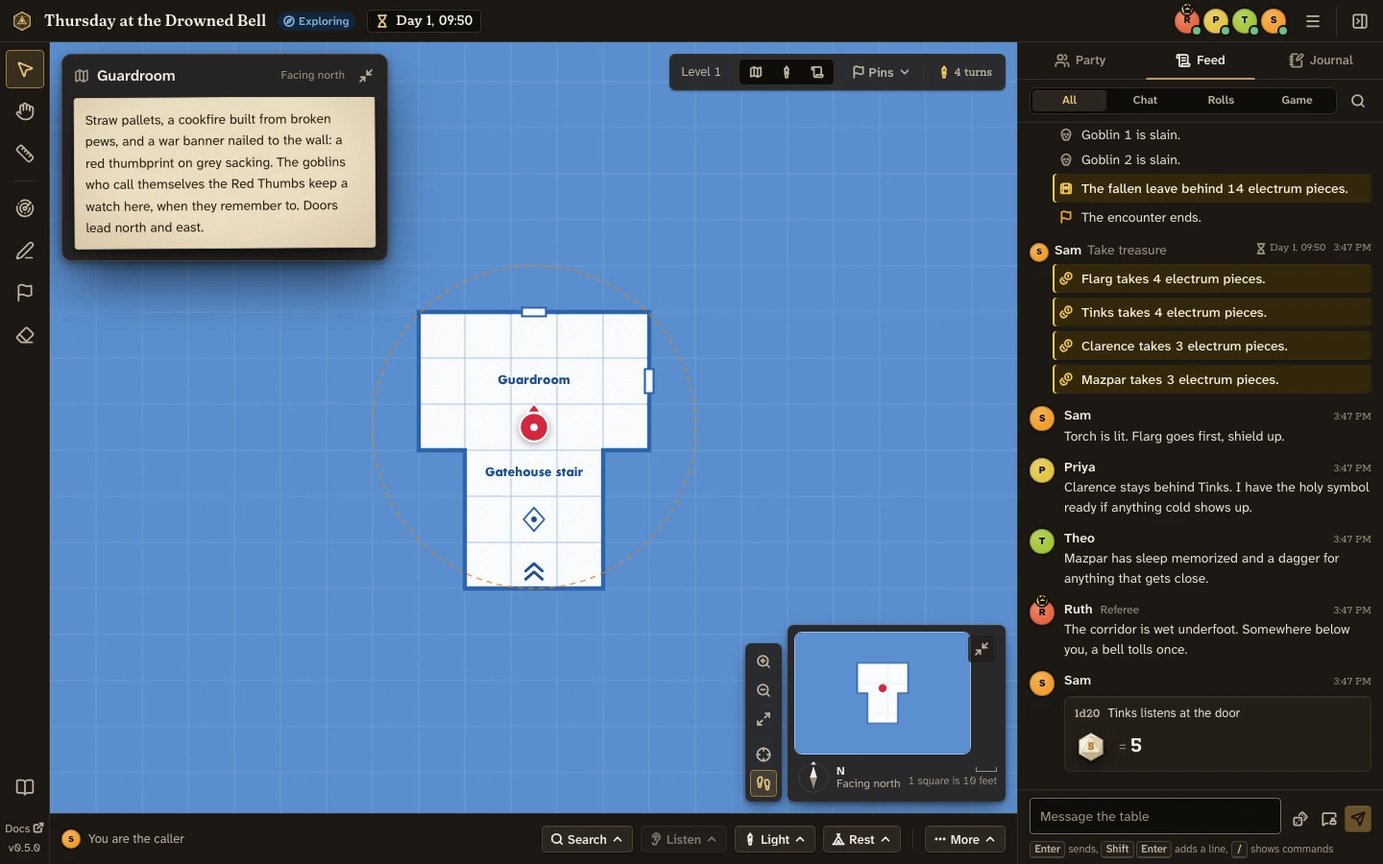
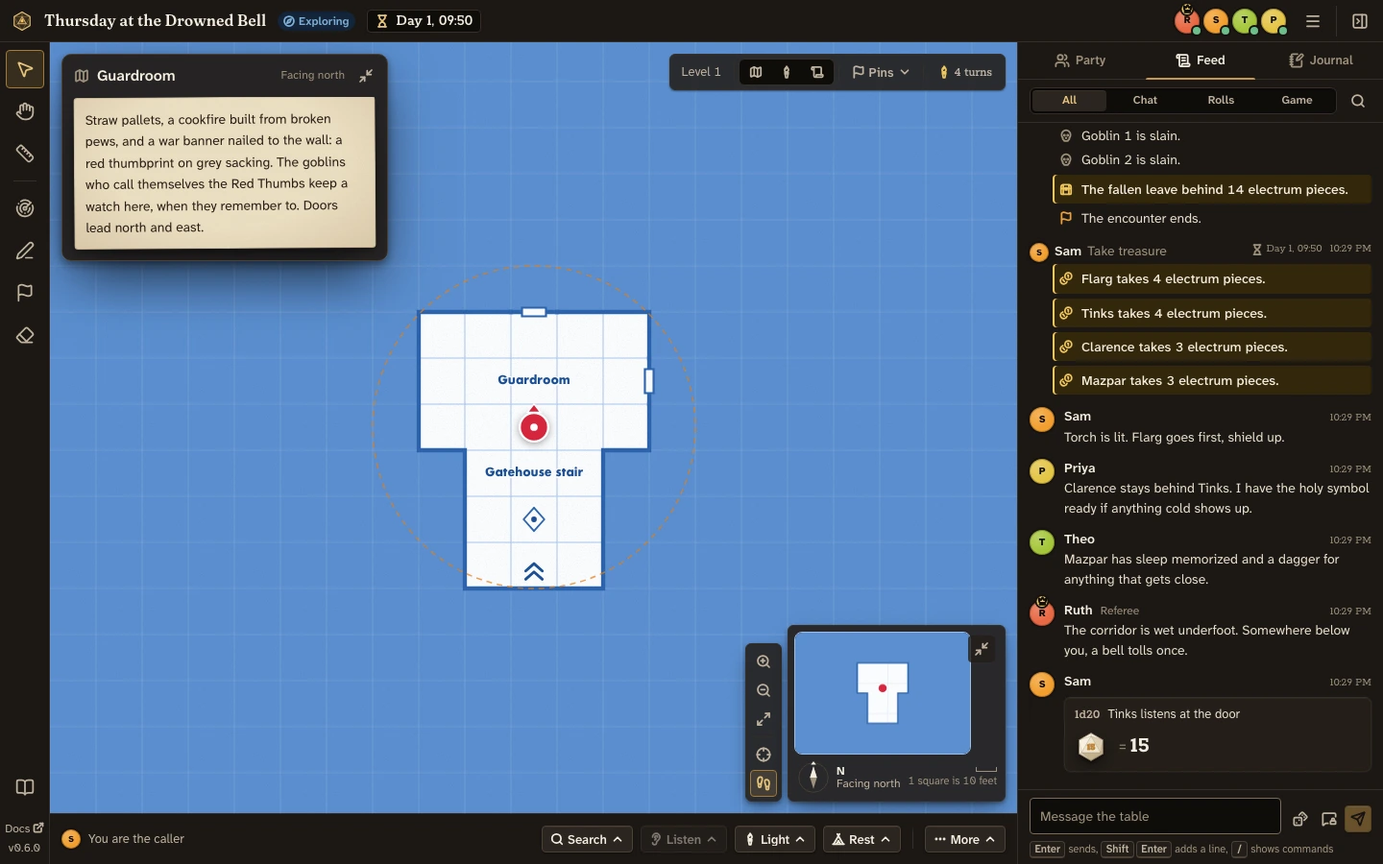
Bump version to 0.6.0 and update the changelog
Move the unreleased changelog entries under 0.6.0, set every package to 0.6.0, and capture the documentation screenshots again so they show the table rules panel, the battle board's Collapse button, and the new version.

The release notes open with what a host must know, list the three changes that can break a client of the protocol or the SDK, and state the rejoin fix under Security. The capture script takes the lobby screenshot in a taller window, because the table rules panel was cut off at 900 px. The battle and getting started pages match the composer, the quick actions, and the lobby as they are now.

Claude-Session: https://claude.ai/code/session_01V7Ertpjdrd4HCgVNU5jJph

diff --git a/docs/changelog.md b/docs/changelog.md
@@ -12,37 +12,59 @@ The format is based on [Keep a Changelog](https://keepachangelog.com/en/1.1.0/),
 
 ## [Unreleased]
 
+## [0.6.0] - 2026-11-27
+
+This release still needs a `bxapi` built on `osrlib` 2.10.0, so the engine requirement is the same as in 0.5.0. It was built and tested against `bxapi` 0.1.0 at commit `0360606`, which is `bxapi` `main` from its pull request 63 onward. `SCHEMA_VERSION` stays at `8`, so the server starts on a 0.5.0 database without a migration. Three changes can break a client of the HTTP or WebSocket protocol or the `@bxvtt/shared/client` SDK, and the list after this paragraph names each one. A referee who hosts a server should also know that players no longer receive the invite code, and that a table whose game `bxapi` has lost now shows a screen with a way out in place of reconnecting forever.
+
+Changes that can break a client:
+
+- `TableDetail.invite_code` is optional. The server sends it only to referees and leaves it out of every response and WebSocket message for a player, so a client that reads it for a player must handle `undefined`. `BxvttClient.createTable` and `BxvttClient.regenerateInviteCode` now return `RefereeTableDetail`, which keeps the code required.
+- The server has a new problem code, `game_missing` (HTTP 410), and a new WebSocket close code, `game_missing` (4012), for a table whose game `bxapi` no longer has. A client that handles every problem code or close code exhaustively needs a case for each, and a client that reconnects on every close code must stop on 4012, because waiting never brings the game back. `CloseReason` has a new member, `'game_missing'`.
+- `TableConnection.connect()` does nothing while a socket is open or connecting. Before, a second call opened a second socket. After the connection closes with `game_missing`, call `connect()` again to try once more.
+
+Every other protocol change is optional or new: `GameSummary.missing`, `RejoinStatus.cancel_reason`, a game entry's `names.valuable_phrases`, and the preview route.
+
 ### Added
 
-- **`game_missing` problem code and `GameSummary.missing` (`@bxvtt/shared/protocol`, `@bxvtt/server`):** When `bxapi` answers that it no longer has a table's session, for example after its database was reset, the server records it and answers game requests with `410 game_missing`. The WebSocket sends an `error` with the same code and closes with the new close code `game_missing` (4012), on which `TableConnection` stops reconnecting with the close reason `game_missing`. Before, the server sent `bxapi_unavailable` and `try_again_later`, as it still does while `bxapi` is only unreachable, and the client tried again forever. `GameSummary.missing` is `true` for such a table in the table list and the table detail until a referee ends the game. ([#24](https://github.com/mmacy/bxvtt/issues/24))
-- **A screen for a game that can't be loaded (`@bxvtt/web`):** Opening such a table shows "The game at {table} can't be loaded" in place of reconnecting forever. A referee gets **Return to lobby**, which ends the lost game and keeps the saves, so the referee can continue from a save, start a new game, or delete the table from the lobby's table menu, even after a full reset of `bxapi`. A player gets **Try again** and **Leave table**. The table list shows a **Can't load** badge for the table. Deleting the table frees its place in the referee's table limit. ([#24](https://github.com/mmacy/bxvtt/issues/24))
-- **`RejoinStatus.cancel_reason` (`@bxvtt/shared/protocol`, `@bxvtt/server`, `@bxvtt/web`):** A cancelled rejoin request says why: `member_returned`, `member_left` (left, removed, or the table was deleted, without saying which), `no_referee`, or `visitor`. The join page shows a message for each, and it reads the members again when a request ends, so it no longer offers to rejoin as a member who is gone. ([#27](https://github.com/mmacy/bxvtt/issues/27))
+- **`game_missing` problem code and `GameSummary.missing` (`@bxvtt/shared/protocol`, `@bxvtt/server`):** When `bxapi` answers that it no longer has a table's session, for example after its database was reset, the server records it and answers game requests with `410 game_missing`. The WebSocket sends an `error` with the same code and closes with the close code `game_missing` (4012), on which `TableConnection` stops reconnecting with the close reason `game_missing`. Before, the server sent `bxapi_unavailable` and `try_again_later`, as it still does while `bxapi` is only unreachable, and the client tried again forever. The routes that don't need the game still work, so a referee can end the game or delete the table, and a player can leave it. `GameSummary.missing` is `true` for such a table in the table list and the table detail until a referee ends the game or `bxapi` has the session again. ([#24](https://github.com/mmacy/bxvtt/issues/24))
+- **A screen for a game that can't be loaded (`@bxvtt/web`):** Opening such a table shows "The game at {table} can't be loaded" in place of reconnecting forever. Everyone gets **Try again**, which connects once more. A referee also gets **Return to lobby**, which ends the lost game and keeps the saves, so the referee can continue from a save, start a new game, or delete the table from the lobby's table menu, even after a full reset of `bxapi`. A player also gets **Leave table**. The table list shows a **Can't load** badge for the table once a member has opened it, because the server learns that the game is gone only then. Deleting the table frees its place in the referee's table limit. ([#24](https://github.com/mmacy/bxvtt/issues/24))
+- **`RejoinStatus.cancel_reason` (`@bxvtt/shared/protocol`, `@bxvtt/server`, `@bxvtt/web`):** A cancelled rejoin request says why: `member_returned`, `member_left` (left, removed, or the table was deleted, without saying which), `no_referee`, or `visitor`. Every other answer has `null`. The join page shows a message for each, and it reads the members again when a request ends, so it no longer offers to rejoin as a member who is gone. The `detail` of `rejoin_not_pending` no longer names the request's state. ([#27](https://github.com/mmacy/bxvtt/issues/27))
+- **`POST /api/tables/{table_id}/game/declarations/preview` (`@bxvtt/server`, `@bxvtt/shared/protocol`, `@bxvtt/shared/client`):** Asks `bxapi` which candidate declarations it would accept beside the stored ones, without storing them (`BxvttClient.previewCandidates`). The body holds up to 20 candidates by member ID, each for a member who hasn't declared, in a seat the caller holds unless the caller is a referee. The answer lists the revision and the members whose candidates `bxapi` accepts, and it accepts none when the candidates would make a saved declaration fail. ([#39](https://github.com/mmacy/bxvtt/issues/39))
 - **A `titleAs` prop on the kit's `EmptyState` (`@bxvtt/web`):** Pass `h1` or `h2` when the empty state is the whole page.
-- **`POST /api/tables/{table_id}/game/declarations/preview` (`@bxvtt/server`, `@bxvtt/shared/protocol`, `@bxvtt/shared/client`):** Asks `bxapi` which candidate declarations it would accept beside the stored ones, without storing them (`BxvttClient.previewCandidates`). ([#39](https://github.com/mmacy/bxvtt/issues/39))
 
 ### Changed
 
-- **Named gems and jewellery read by `osrlib`'s phrase (`@bxvtt/shared/text`, `@bxvtt/shared/protocol`, `@bxvtt/server`):** The feed, including its give and drop lines, and the dropped-pile lists word a named valuable in a sentence with the `valuable_phrases` entry that `osrlib` 2.10 states, such as "Wren takes Ossor's Eye." and "Wren takes the abbot's gold ring.", and use `valuable_names` only for lists. A game entry's `names` has a new optional `valuable_phrases` record with the phrase of each named valuable the entry's events name. An entry stored before 2.10 has a name and no phrase, and the text words its name as before. ([#47](https://github.com/mmacy/bxvtt/issues/47))
+- **The invite code reaches referees only (`@bxvtt/server`, `@bxvtt/shared/protocol`, `@bxvtt/shared/client`):** The server leaves `invite_code` out of every response and WebSocket message for a player, including `GET /api/tables/{table_id}`, `POST /api/join`, the snapshot, and the `table` message. A member promoted to referee receives it without reloading, and a referee who becomes a player stops receiving it. A player still knows the code they joined with, so this keeps from players only a code that a referee replaced after they joined.
+- **Table rules in the lobby and on the play screen (`@bxvtt/web`):** Everyone sees a **Table rules** panel under **Party**, in place of the collapsible **Rules** panel: a short summary of how characters are created and how the game plays, under a badge that names the starting rules. A referee selects **Change rules** to open the form and **Done** to close it. A player's lobby no longer shows **Invite players**, **Table settings**, or the form's read-only switches, and a player's **Table menu** has **Table rules**, which opens the summary, in place of **Table settings** and **Copy invite link**.
+- **Named gems and jewellery read by `osrlib`'s phrase (`@bxvtt/shared/text`, `@bxvtt/shared/protocol`, `@bxvtt/server`):** The feed, including its give and drop lines, and the dropped-pile lists word a named valuable in a sentence with the `valuable_phrases` entry that `osrlib` 2.10 states, such as "Wren takes Ossor's Eye." and "Wren takes the abbot's gold ring.", and use `valuable_names` only for lists. A game entry's `names` has a new optional `valuable_phrases` record with the phrase of each named valuable the entry's events name, so a line about a piece the party later sold still reads right. An entry stored before 2.10 has a name and no phrase, and the text words its name as before. ([#47](https://github.com/mmacy/bxvtt/issues/47))
 - **The sample adventures set `phrase` on their possessive valuables (`adventures`):** The Drowned Bell's "Abbot's gold ring" and "Prior's chain of office" read "the abbot's gold ring" and "the prior's chain of office". The `valuable` helper in `adventures/tools/lib.mjs` takes `phrase` as its fifth argument, and the authoring guide says when to set it.
-- **Refusals state the cause once (`@bxvtt/shared/text`):** A refusal of a battle, exploration, item, or magic action says why the action won't work, such as "Wren isn't in the front rank, so they can't reach the monsters.", and no longer adds a next step that the controls already show or restates a rule you didn't break. A refusal no longer writes a distance or a limit that `bxapi` doesn't send with it.
-- **Table rules in the lobby and on the play screen (`@bxvtt/web`):** Everyone sees a **Table rules** panel under **Party**: a short summary of how characters are created and how the game plays, under a badge that names the starting rules. A referee selects **Change rules** to open the form and **Done** to close it. A player's lobby no longer shows **Invite players**, **Table settings**, or the form's read-only switches, and a player's **Table menu** has **Table rules** in place of **Table settings** and **Copy invite link**.
-- **Controls that can't work say why (`@bxvtt/web`):** The temple's **Buy** buttons are unavailable, with the reason, when the party's gold pieces can't cover the price. The sheet's **Give** and **Drop**, **Change order** with one member, **Place party** during an encounter, **Award XP** with no living member, and **Spawn party** without a distance are unavailable with a reason. A character with one spell to learn, and a form with one possible actor, start with that choice made. The town's **Set out** for a second dungeon confirms that dungeon. On the wizard's outfit step, **Add** and the plus button say "This costs {cost} gp, and you have {left} gp left." when the gold left can't cover another lot, and the language and spell lists are described by their "2 of 2 chosen" count. **Start game** keeps the list of what is missing and no longer repeats it as a reason. The learn button reads "Learn" until a spell is chosen, then "Learn {spell}". The kit's tooltip takes its colors from the theme's role tokens.
+- **Refusals state the cause once (`@bxvtt/shared/text`):** A refusal of a battle, exploration, item, or magic action says why the action won't work, such as "Wren isn't in the front rank, so they can't reach the monsters.", and no longer adds a next step that the controls already show or restates a rule you didn't break. A refusal no longer writes a distance or a limit that `bxapi` doesn't send with it. The refusal of an item used on a target outside the party names the member who declared it.
+- **The return to lobby confirmation (`@bxvtt/web`):** **Return to lobby?** no longer says "session". The table menu and the screen for a game that can't be loaded show the same text.
+- **Controls that can't work say why (`@bxvtt/web`):** The sheet's **Give** and **Drop**, **Change order** with one member, **Place party** during an encounter, **Award XP** with no living member, and **Spawn party** without a distance are unavailable with a reason. A character with one spell to learn, and a form with one possible actor, start with that choice made. On the wizard's outfit step, **Add** and the plus button say "This costs {cost} gp, and you have {left} gp left." when the gold left can't cover another lot, and the language and spell lists are described by their "2 of 2 chosen" count. **Start game** keeps the list of what is missing and no longer repeats it as a reason. The learn button reads "Learn" until a spell is chosen, then "Learn {spell}".
+- **The temple's Buy buttons (`@bxvtt/web`):** **Buy** is unavailable, with the reason, when every purse in the party holds only gold pieces and they can't cover the price. With any other coin in a purse, the button stays available and `bxapi` decides, because `bxapi` counts every coin's value. The sentences that stood beside the buttons are gone, and **Who pays** says "The whole party shares temple fees."
+- **Encounter item and flee choices (`@bxvtt/web`):** **Give** waits for a recipient, and the gold fields stop at the purse. **Scatter coins** and **Drop food** are unavailable, with the reason, when nobody in the party carries any. ([#63](https://github.com/mmacy/bxvtt/issues/63))
 - **The battle composer no longer judges reach or range (`@bxvtt/web`):** Every attack, spell target, touch, and give is offered, and `bxapi`'s round preview says why one won't work once you declare it. The refusal shows under the choice it names. Each group has one attack row, which says how the member attacks, and a weapon that is reloading keeps its row, unavailable, with the reason. ([#39](https://github.com/mmacy/bxvtt/issues/39))
-- **Quick actions come from `bxapi`'s answer (`@bxvtt/web`):** The battle board and the action bar offer a member's one-click choice only when `bxapi`'s preview accepts it, so a quick action never holds up the round or makes a saved action fail. While a new answer is out, the previous button stays in place and can't be used. ([#39](https://github.com/mmacy/bxvtt/issues/39))
+- **Quick actions come from `bxapi`'s answer (`@bxvtt/web`):** The battle board and the action bar offer a member's one-click choice only when `bxapi`'s preview accepts it, so a quick action never holds up the round or makes a saved action fail. A member with no accepted choice gets none. While a new answer is out, the previous button stays in place and can't be used. ([#39](https://github.com/mmacy/bxvtt/issues/39))
 - **The battle board keeps one size (`@bxvtt/web`):** Opening a composer no longer shrinks the range track or hides the last round's result. A composer from a round that has resolved closes. **Collapse** and **Expand** are text buttons, and a collapsed board stays collapsed and still shows the playback. ([#64](https://github.com/mmacy/bxvtt/issues/64))
 - **The battle board at phone width (`@bxvtt/web`):** The ruler labels every other tick, a crowded group's label moves above its token, **Replay** stays inside the Result card, and tokens a few feet apart no longer draw over each other. On a phone the board scrolls as a whole, so every character row can be reached, and the track keeps its full height when the board is collapsed. ([#43](https://github.com/mmacy/bxvtt/issues/43))
 - **The caller in a narrow action bar (`@bxvtt/web`):** The caller's dot shows their initials and names them in its tooltip, such as "Sam is the caller" or "You are the caller". The dot takes keyboard focus, so the tooltip opens with Tab as well as on hover, and the sentence stays readable to assistive technology. With no caller, a narrow bar shows **No caller**, and when anyone may move the party it shows **Anyone moves**. The full sentence stays for screen readers and at wider widths. The kit's `ActionBar` shows a status `span` marked `data-status-short` only in a narrow bar.
-- **The invite code reaches referees only (`@bxvtt/server`, `@bxvtt/shared/protocol`, `@bxvtt/shared/client`):** `TableDetail.invite_code` is optional, and the server leaves it out of every response and WebSocket message for a player, including `GET /api/tables/{table_id}`, `POST /api/join`, the snapshot, and the `table` message. A member promoted to referee receives it without reloading, and a referee who becomes a player stops receiving it. The new `RefereeTableDetail` type, which `createTable` and `regenerateInviteCode` return, has the code. A player still knows the code they joined with, so this keeps from players only a code that a referee replaced after they joined.
 - **The referee's lobby on a phone (`@bxvtt/web`):** Below 640 px, **Start game** comes first, then **Party**, **Table rules**, and **Adventure**, and then **People at the table**, **Invite players**, and **Table settings**. A player's waiting notice stays at the top.
-- **Encounter item and flee choices (`@bxvtt/web`):** **Give items**, **Use an item**, and **Drop items** follow seat changes and never keep a stale member, item, or target. **Give** waits for a recipient, the gold fields stop at the purse, and **Scatter coins** and **Drop food** are unavailable, with the reason, when nobody in the party carries any. ([#63](https://github.com/mmacy/bxvtt/issues/63))
+- **Tooltip colors (`@bxvtt/web`):** The kit's tooltip takes its colors from the theme's role tokens.
 
 ### Fixed
 
+- **Leaving a table ends the leaver's rejoin requests (`@bxvtt/server`):** When a member leaves or a referee removes them, the server cancels requests to rejoin as that member, including an approval nobody has claimed, and the referees' banner updates at once. A pending request that no remaining referee could approve ends too, when the only other referee leaves, is removed, or becomes a player, and deleting a table ends all of its requests. Before, such a request stayed in the banner until it expired, and it still counted toward the visitor's limit of 3 waiting requests. The battle declarations that a leaver saved stay, because their characters stay in the battle under the referee's control. ([#27](https://github.com/mmacy/bxvtt/issues/27))
+- **The town's Set out for a second dungeon (`@bxvtt/web`):** **Set out** opens the confirmation for the dungeon you chose. It opened the first dungeon.
+- **Forms that sent a choice the player couldn't see (`@bxvtt/web`):** The sheet, town, exploration, and referee forms leave the giver out of the recipients and no longer send a recipient the player can't see. **Give items**, **Use an item**, and **Drop items** follow seat changes and never keep a stale member, item, or target. ([#63](https://github.com/mmacy/bxvtt/issues/63))
+- **The caller's dot on a phone (`@bxvtt/web`):** A layout rule hid the initials in the caller's dot in a narrow action bar, so it showed as a bare dot. It shows the initials.
 - **Tooltips that close while opening (`@bxvtt/web`):** A kit tooltip that closed during its opening animation, as when someone holds Tab, stayed on screen until another one opened. A closing tooltip now leaves at once.
 - **Item names on the wizard's outfit step (`@bxvtt/web`):** Each item's details button takes its name from the text it shows, such as "Battle axe, 1d8, melee, slow, two-handed, show details", so a speech user who says what they see reaches it. Before, a separate label didn't match the wrapped text on a phone, and the accessibility check failed.
-- **The lobby's tab order on one column (`@bxvtt/web`):** Below 860 px the lobby put the start panel first on screen with CSS but last in the page, so Tab reached it after the party. The page now places each block in the order it shows at that width.
+- **The lobby's tab order on one column (`@bxvtt/web`):** At 860 px and narrower the lobby put the start panel first on screen with CSS but last in the page, so Tab reached it after the party. The page now places each block in the order it shows at that width.
 - **Named valuables in the inventory and the treasure lists (`@bxvtt/web`):** The inventory and the treasure buyers' list show a named gem or piece of jewellery as the adventure writes it, so "A unicorn-horn cup" no longer loses its first word. A piece with no name still shows as "Gem" or "Jewellery".
-- **Leaving a table ends the leaver's rejoin requests (`@bxvtt/server`):** When a member leaves or a referee removes them, the server cancels requests to rejoin as that member, including an approval nobody has claimed, and the referees' banner updates at once. A pending request that no remaining referee could approve ends too, when the only other referee leaves, is removed, or becomes a player, and deleting a table ends all of its requests. Before, such a request stayed in the banner until it expired, and it still counted toward the visitor's limit of 3 waiting requests. The battle declarations that a leaver saved stay, because their characters stay in the battle under the referee's control. ([#27](https://github.com/mmacy/bxvtt/issues/27))
+
+### Security
+
+- **An approved rejoin could be claimed by the wrong browser (`@bxvtt/server`):** A referee's approval of a rejoin request stayed claimable until the visitor's browser claimed it, and only the member's connecting to the table over the WebSocket ended it. When the member left the table and joined again with the invite code before the claim, the approval survived, and the visitor's next poll received the member's new token, took over their place at the table, and signed the member out. Leaving the table, being removed, or a table's deletion now ends every pending or unclaimed approved request that names the member, and the visitor reads `cancelled` with `member_left`. ([#27](https://github.com/mmacy/bxvtt/issues/27))
 
 ## [0.5.0] - 2026-11-27
 
@@ -237,7 +259,8 @@ This release needs a `bxapi` built on `osrlib` 2.8, which is `bxapi` `main` from
 - **Bundled adventures, authoring builder, and automated verifier (`adventures/`):** Every server offers two original `osrlib` modules compiled from `adventures/src/*.mjs` (*The Drowned Bell*, a 3-level, 36-area campaign dungeon, and *The Toll at Crookback Bridge*, a 1-level, 13-area single-session module) alongside `bxapi`'s built-in *The Barrow of the Forgotten King*, plus per-table custom `.json` upload validation (up to 8 MiB) and live `adventures/` directory scanning. Zero-dependency scripts in `adventures/tools/` provide an ASCII grid compiler (`LevelBuilder` in `build.mjs`) and an automated static and live `bxapi` verifier (`check.mjs`) that checks schema validity, entrance reachability, level transitions, keyed encounters, triggers, and quests. See [Included and custom adventures](adventures/included-adventures.md) and [Author and validate adventures](adventures/authoring-and-checking.md).
 - **Design system, verification suites, and documentation site:** `@bxvtt/web` builds on a token-driven UI kit (`apps/web/src/ui`, with component galleries at `/kit` and `/kit/table`) using Radix UI primitives, self-hosted Fraunces, Atkinson Hyperlegible Next, and Rokkitt variable fonts, custom B/X class, equipment, and die SVGs, full keyboard navigation, code-split client bundles, and in-memory Brotli and gzip asset serving. Automated checks cover TypeScript, ESLint, Prettier, Vitest unit and live-`bxapi` server integration suites (including scans ensuring player responses never include referee data), multi-browser Playwright end-to-end game and `axe-core` accessibility suites (`e2e/`), GitHub Actions CI against production bundles, and a Docusaurus 3.10 documentation site (`website/` and `docs/`) with light and dark torch-ember themes.
 
-[Unreleased]: https://github.com/mmacy/bxvtt/compare/v0.5.0...HEAD
+[Unreleased]: https://github.com/mmacy/bxvtt/compare/v0.6.0...HEAD
+[0.6.0]: https://github.com/mmacy/bxvtt/compare/v0.5.0...v0.6.0
 [0.5.0]: https://github.com/mmacy/bxvtt/compare/v0.4.0...v0.5.0
 [0.4.0]: https://github.com/mmacy/bxvtt/compare/v0.3.0...v0.4.0
 [0.3.0]: https://github.com/mmacy/bxvtt/compare/v0.2.0...v0.3.0

diff --git a/docs/playing/encounters-and-battle.md b/docs/playing/encounters-and-battle.md
@@ -28,23 +28,25 @@ B/X battles resolve simultaneously round by round. Each round, you choose an act
 
 A range track at the top of the battle board shows the distance from the party line to each monster group, and the list below it shows every character who can act this round. A group that breaks and runs stays on the track, marked as fleeing, and you can still aim at it until it escapes. A group that has escaped moves to the track's tray, labeled **Escaped** (or **Gone** when the tray also holds slain monsters). Once anyone has declared a move, the track shows a faded portrait in a dashed ring where each moving character will stand. Party members see one another's actions in real time, so the group can coordinate targets, spells, and movement.
 
+Select **Collapse** at the top right of the board to hide the character rows and keep the range track and the playback. **Expand** brings the rows back, and a board you collapsed stays collapsed from round to round. Opening an action composer never changes the size of the board.
+
 ![The battle board in round 1, with faded portraits on the range track where Flarg and Tinks will stand, and Clarence's row saying his attack won't work](../images/battle.webp)
 
 ### Declare with the suggested action or the full choices
 
 Each of your characters' rows says **Not declared yet** until you declare, and **Declared:** followed by the action once you have. Every way of declaring below saves the action the same way, with no confirmation step:
 
-1. Select the suggested action on a character's row to declare it. The suggestion depends on the character's rank, equipment, and class, and the action bar offers the same choice for your next undeclared character as **Declare for** followed by the character's name (press `A`):
+1. Select the suggested action on a character's row to declare it. The suggestion depends on the character's rank, equipment, and class, and the game has to accept it beside the actions your party already declared, so a row shows no suggestion when none of its choices would work. The action bar offers the same choice for your next undeclared character as **Declare for** followed by the character's name (press `A`):
    - **Already in melee:** Attacks the engaged monster group with the character's wielded weapon (for example, **Attack the goblins with a sword**).
-   - **Ranged weapon in range:** Shoots or throws at the nearest group in range (for example, **Shoot at the goblins with a shortbow**).
+   - **Ranged weapon:** Shoots or throws at the nearest group (for example, **Shoot at the goblins with a shortbow**).
    - **Caster with memorized spells:** **Choose a spell**, which opens that character's **Cast** tab instead of declaring.
    - **Armoured non-caster front-rank fighter:** Closes in and attacks (such as **Attack the goblins with a sword, closing in** or **Close in on the goblins**).
-   - **Thief who can back-stab this round:** **Back-stab** followed by the nearest monster group, closing in when the group isn't in melee reach.
-   - **Back-rank or unarmoured characters without a ranged attack or spell:** Defaults to **Hold** so a quick keypress never sends unarmoured characters or casters charging into melee. The row reads **Not declared yet. No attack from here.**
+   - **Thief who can back-stab this round:** **Back-stab** followed by the nearest monster group, closing in when the character isn't in melee with the group.
+   - **Back-rank or unarmoured characters without a ranged attack or spell:** Defaults to **Hold** so a quick keypress never sends unarmoured characters or casters charging into melee.
 2. For any other tactic, select **Actions** on the character's row (or press `1` through `9` for your first through ninth character) to open the action composer. Choosing a tile or a button there saves the action at once, and **Close** puts the composer away:
-   - **Attack:** Pick a target group and switch weapons. The **Back-stab** box ("Strike a monster that hasn't noticed Tinks.") appears only when the game allows that character a back-stab this round, such as on the free round after the party surprises the monsters or while a thief is hiding, and it starts checked.
+   - **Attack:** Pick a target group and switch weapons. The composer offers every group, however far away, with one row for each that says how the character attacks it, such as with a sword or by closing in. A weapon that is reloading keeps its row, unavailable, with the reason. If the game can't carry out the choice, its reason shows under the row once you pick it. The **Back-stab** box ("Strike a monster that hasn't noticed Tinks.") appears only when the game allows that character a back-stab this round, such as on the free round after the party surprises the monsters or while a thief is hiding, and it starts checked.
    - **Cast:** Choose a memorized spell and aim at monster groups, specific individual monsters (such as `Goblin 2`), or party allies.
-   - **Move:** Choose **Close in** on a monster group ("Already in melee." when the character already stands in that group's front rank, and "Move toward them without attacking." otherwise), **Fighting withdrawal** ("Back away from the monsters, facing them, without attacking."), or **Retreat** ("Turn and run," followed by how far the character runs in a round). To swap ranks with another party member, choose that member in **Trade places with**, or **No one**.
+   - **Move:** Choose **Close in** on a monster group ("Move toward them without attacking," unavailable with "{Name} is already in melee with the goblins." when the character already stands in that group's front rank), **Fighting withdrawal** ("Back away from the monsters, facing them, without attacking."), or **Retreat** ("Turn and run without attacking."). To swap ranks with another party member, choose that member in **Trade places with**, or **No one**.
    - **Item:** Drink a potion, read a scroll, throw oil or holy water, or activate a magic item.
    - **Hide:** The **Hide** tab appears only for a character who can hide this round, such as a thief behind the front rank. **Hide in shadows** sets up a back-stab instead of acting. The referee rolls in secret, so the board never says whether a hide worked. A **Hiding** badge on the character's row shows who is hiding. If another character's planned move changes things while the tab is open, the button becomes unavailable and says "Tinks can't hide this round." A saved hide or back-stab stays on the character's row even when it no longer works, and the row says why.
    - **Give**, **Turn undead**, and **Hold**.

diff --git a/docs/playing/table-and-town.md b/docs/playing/table-and-town.md
@@ -12,7 +12,7 @@ When the referee starts or restores a game, the play screen opens for everyone a
 ## Tour the play screen
 
 - **Top bar:** Displays the table name, mode badge (**In town**, **Exploring**, **Encounter**, **Battle**, **Game over**, or **Victory**), game clock (such as `Day 1, 00:30`, plus the round counter in battle), online avatars, and the **Table menu**. Use **Hide table panels** / **Show table panels** at the right end to collapse or expand the dock (on windows narrower than 1100 pixels, the dock becomes a drawer opened with **Open table panels**).
-- **Tool rail (left):** Contains the dungeon map tools (shown while in a dungeon) and, at the bottom, **Rules reference** (`B`). Under the rail, **Docs** opens this documentation in a new tab, and the line below it shows the bxvtt version, such as `v0.5.0`. Every other screen shows the same two items in its bottom left corner.
+- **Tool rail (left):** Contains the dungeon map tools (shown while in a dungeon) and, at the bottom, **Rules reference** (`B`). Under the rail, **Docs** opens this documentation in a new tab, and the line below it shows the bxvtt version, such as `v0.6.0`. Every other screen shows the same two items in its bottom left corner.
 - **Stage (center):** Displays the active scene for the current game mode: town services, the dungeon map, an encounter prompt, the battle board, or the end-of-adventure summary.
 - **Action bar (bottom):** Displays who the caller is alongside contextual actions for the current mode. On narrower screens, buttons condense to icons and excess items move into **More actions**.
 - **Dock (right):** Contains the **Party** (`Alt+1`), **Feed** (`Alt+2`), and **Journal** (`Alt+3`) tabs, plus **Referee** (`Alt+4`) for referees with the referee lens enabled.

diff --git a/docs/playing/getting-started.md b/docs/playing/getting-started.md
@@ -72,9 +72,9 @@ Each character you create joins the **Party** list when the wizard closes. If ad
 
 ## Wait in the lobby
 
-Before play starts, everyone gathers in the lobby.
+Before play starts, everyone gathers in the lobby. The screenshot shows the referee's view. A player sees **Party**, **Table rules**, and **People at the table**, and has no start, invite, or settings panels.
 
-![The table lobby showing four party members in marching order](../images/lobby.webp)
+![The table lobby as the referee sees it, with four party members in marching order, the Table rules summary under them, and the start, people, invite, and settings panels beside them](../images/lobby.webp)
 
 - **Party** displays the characters in marching order, where the top rows form the front rank. Select any character's name to inspect their sheet (and **Delete character** if you own them and want to remove them permanently). You can pull your own character off the roster with the remove button on the character's row (named, for example, **Remove Wren from party**), while the referee controls the final marching order.
 - **Your characters** lists any characters you created earlier (or removed from the roster) that are not currently in **Party**. Select **Add to party** if a character is waiting here. Its button opens the character wizard and reads **Create a character**, or **Resume character** while you have an unfinished character at this table.
